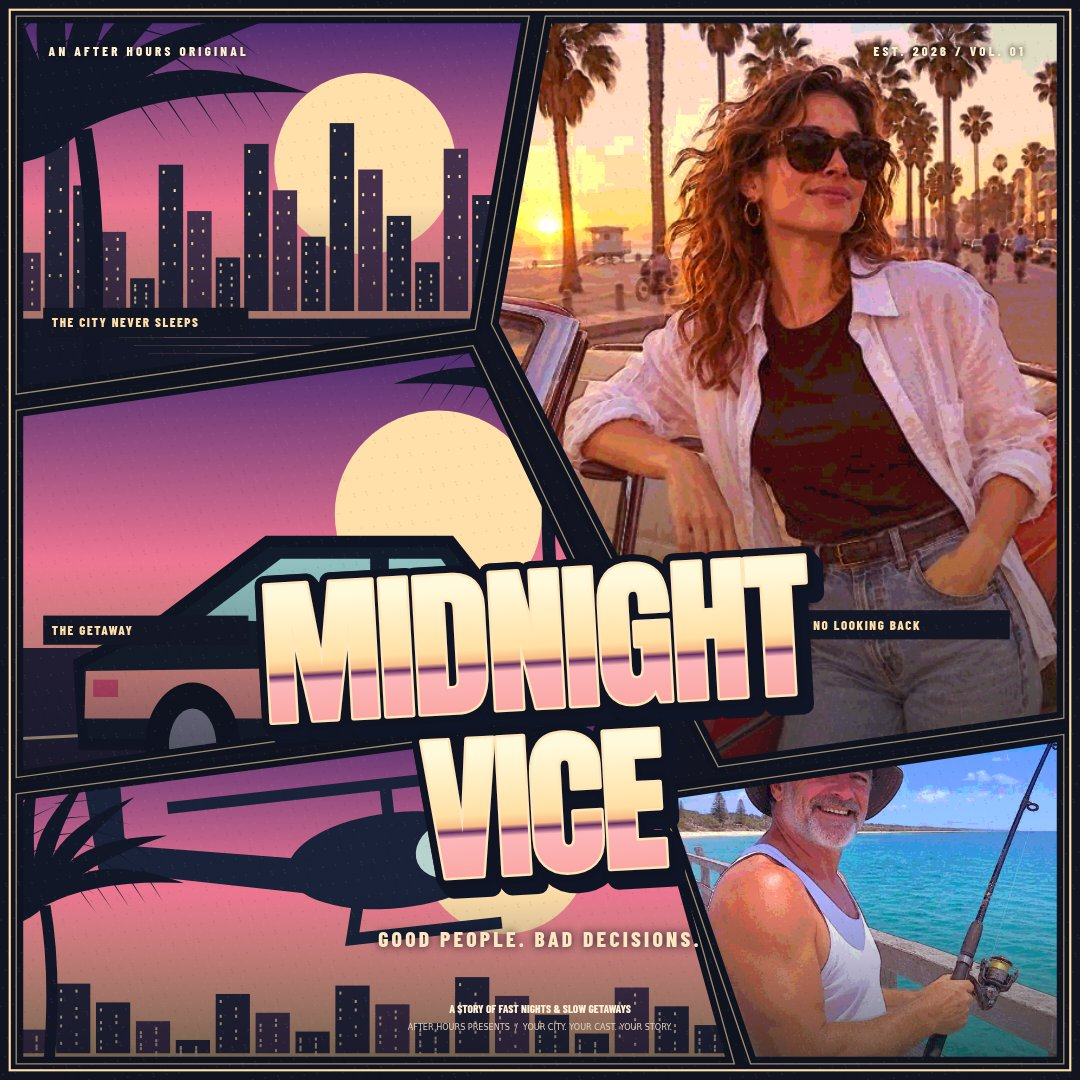
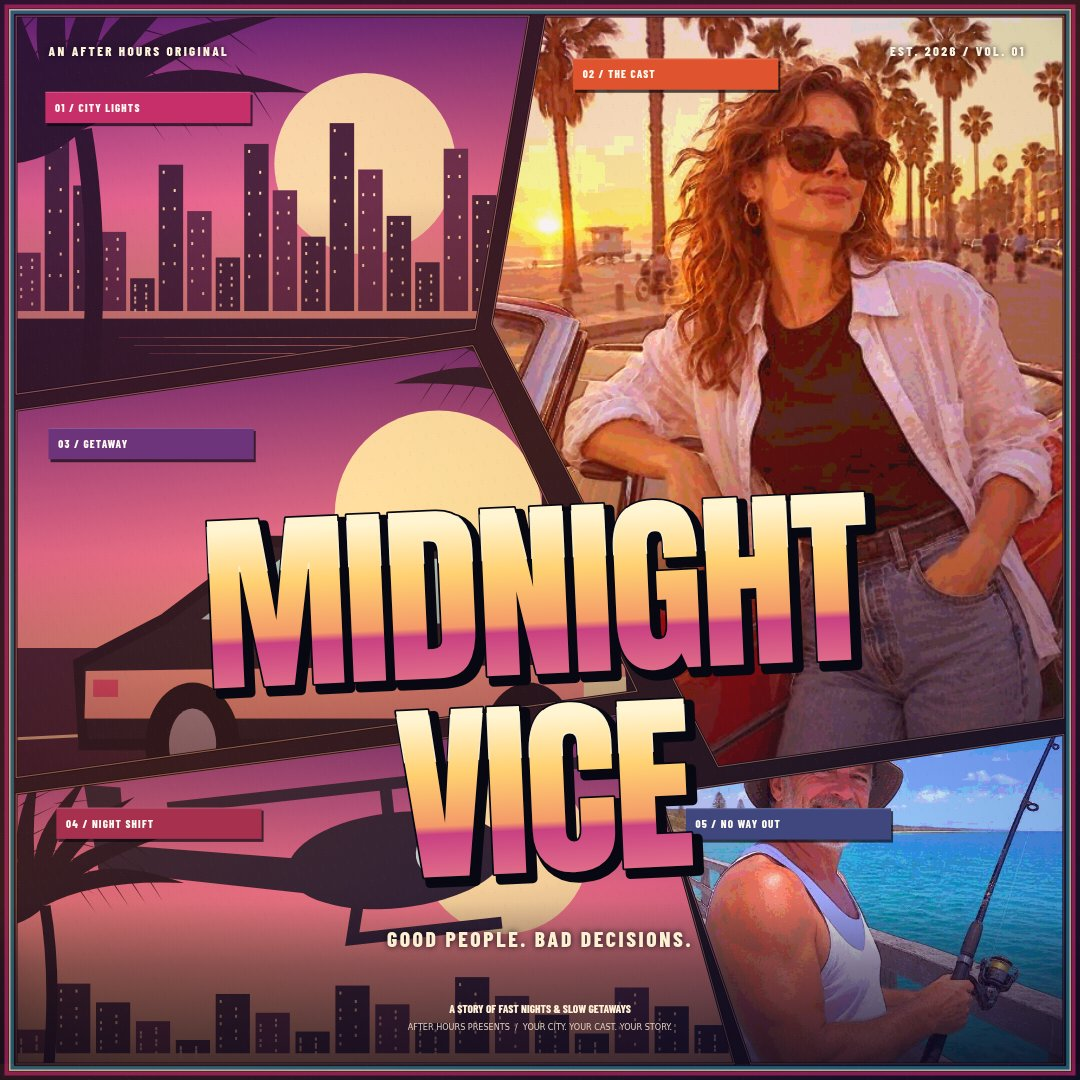
Art pass: bolder lettering, dynamic panels, richer grade

diff --git a/app/src/cover.js b/app/src/cover.js
@@ -6,11 +6,12 @@ const palettes = {
  ice:{sky:['#182b58','#457fa2','#a5ddd3'],light:'#d4ffe6',accent:'#6edfd9',dark:'#121d31'}
 };
 function panels(layout='fracture'){
- if(layout==='blocks')return [[[.015,.015],[.33,.015],[.33,.31],[.015,.31]],[[.34,.015],[.985,.015],[.985,.64],[.34,.64]],[[.015,.325],[.33,.325],[.33,.65],[.015,.65]],[[.015,.665],[.49,.665],[.49,.985],[.015,.985]],[[.505,.655],[.985,.655],[.985,.985],[.505,.985]]];
- if(layout==='cinema')return [[[.015,.015],[.985,.015],[.985,.25],[.015,.25]],[[.24,.265],[.76,.265],[.8,.83],[.2,.83]],[[.015,.265],[.225,.265],[.185,.83],[.015,.83]],[[.775,.265],[.985,.265],[.985,.83],[.815,.83]],[[.015,.845],[.985,.845],[.985,.985],[.015,.985]]];
+ if(layout==='blocks')return [[[.015,.015],[.32,.015],[.33,.295],[.015,.31]],[[.335,.015],[.985,.015],[.985,.625],[.35,.64]],[[.015,.325],[.31,.31],[.33,.65],[.015,.65]],[[.015,.665],[.475,.665],[.49,.985],[.015,.985]],[[.49,.655],[.985,.655],[.985,.985],[.51,.985]]];
+ if(layout==='cinema')return [[[.015,.015],[.985,.015],[.985,.245],[.015,.25]],[[.245,.265],[.76,.265],[.8,.82],[.2,.83]],[[.015,.265],[.225,.265],[.185,.82],[.015,.83]],[[.775,.265],[.985,.265],[.985,.82],[.815,.83]],[[.015,.845],[.985,.845],[.985,.985],[.015,.985]]];
  return [[[.015,.015],[.49,.015],[.44,.305],[.015,.365]],[[.505,.015],[.985,.015],[.985,.665],[.665,.71],[.455,.30]],[[.015,.38],[.438,.32],[.59,.64],[.015,.72]],[[.015,.735],[.59,.66],[.68,.985],[.015,.985]],[[.61,.735],[.985,.68],[.985,.985],[.695,.985]]];
 }
 function path(c,p,w,h){c.beginPath();p.forEach(([x,y],i)=>i?c.lineTo(x*w,y*h):c.moveTo(x*w,y*h));c.closePath()}
+function centroid(poly){return poly.reduce((a,[x,y])=>[a[0]+x/poly.length,a[1]+y/poly.length],[0,0])}
 function palm(c,x,y,s,flip=1){c.save();c.translate(x,y);c.scale(s*flip,s);c.fillStyle='#121728';c.strokeStyle='#121728';c.lineWidth=8;c.beginPath();c.moveTo(0,140);c.quadraticCurveTo(10,58,0,0);c.stroke();for(let i=0;i<9;i++){let a=-Math.PI+.36*i;c.save();c.rotate(a);c.beginPath();c.moveTo(0,0);c.quadraticCurveTo(35,-35,100,10);c.quadraticCurveTo(40,-9,0,0);c.fill();for(let j=2;j<7;j++){c.beginPath();c.moveTo(j*12,-11);c.lineTo(j*12+10,13+j);c.lineTo(j*12+3,-5);c.fill()}c.restore()}c.restore()}
 function skyline(c,x,y,w,h,p){for(let i=0;i<18;i++){let bh=h*(.15+((i*71+17)%100)/130),bw=w/21;c.fillStyle=i%3===0?'#45304b':'#242439';c.fillRect(x+i*w/18,y-bh,bw,bh);c.fillStyle=p.light;for(let r=0;r<7;r++)for(let k=0;k<2;k++)if((i+r+k)%3)c.fillRect(x+i*w/18+4+k*bw*.45,y-bh+6+r*bh/8,2,3)}}
 function scene(c,b,type,p){let {x,y,w,h}=b;c.save();c.beginPath();c.rect(x,y,w,h);c.clip();let g=c.createLinearGradient(0,y,0,y+h);p.sky.forEach((v,i)=>g.addColorStop(i/2,v));c.fillStyle=g;c.fillRect(x,y,w,h);c.fillStyle=p.light;c.beginPath();c.arc(x+w*.68,y+h*.39,Math.min(w,h)*.24,0,7);c.fill();
@@ -21,19 +22,77 @@ function scene(c,b,type,p){let {x,y,w,h}=b;c.save();c.beginPath();c.rect(x,y,w,h
 const cache=new WeakMap();
 function processed(img,ink){if(!ink)return img;if(cache.has(img))return cache.get(img);let a=document.createElement('canvas');let scale=Math.min(1,1000/img.naturalWidth);a.width=img.naturalWidth*scale;a.height=img.naturalHeight*scale;let k=a.getContext('2d',{willReadFrequently:true});k.drawImage(img,0,0,a.width,a.height);let d=k.getImageData(0,0,a.width,a.height),o=new Uint8ClampedArray(d.data);for(let y=1;y<a.height-1;y++)for(let x=1;x<a.width-1;x++){let i=(y*a.width+x)*4;let edge=0;for(let j=0;j<3;j++)edge+=Math.abs(o[i+j-4]-o[i+j+4])+Math.abs(o[i+j-a.width*4]-o[i+j+a.width*4]);let e=Math.max(.35,1-Math.max(0,edge-75)/500);for(let j=0;j<3;j++)d.data[i+j]=Math.round(o[i+j]/22)*22*e;}k.putImageData(d,0,0);cache.set(img,a);return a}
 function drawCover(canvas,images,caption,opts={}){
- const c=canvas.getContext('2d'),w=canvas.width,h=canvas.height,p=palettes[opts.grade||'sunset'];c.clearRect(0,0,w,h);c.fillStyle='#121421';c.fillRect(0,0,w,h);let ps=panels(opts.layout);let assignments=opts.assignments||[0,-1,-2,-3,1];
- ps.forEach((poly,i)=>{let xs=poly.map(a=>a[0]*w),ys=poly.map(a=>a[1]*h),b={x:Math.min(...xs),y:Math.min(...ys),w:Math.max(...xs)-Math.min(...xs),h:Math.max(...ys)-Math.min(...ys)};c.save();path(c,poly,w,h);c.clip();let ix=assignments[i],img=images[(ix>=0?ix:i)%images.length];if(ix<0){scene(c,b,ix===-1?'skyline':ix===-2?'car':'flight',p)}else if(img){let src=processed(img,opts.ink),sw=src.width||src.naturalWidth,sh=src.height||src.naturalHeight,crop=opts.crops?.[i]||{x:0,y:0,zoom:1},s=Math.max(b.w/sw,b.h/sh)*(crop.zoom||1),dw=sw*s,dh=sh*s;c.filter='saturate(1.3) contrast(1.1)';c.drawImage(src,b.x+(b.w-dw)/2+Math.min(1,Math.max(-1,crop.x||0))*(dw-b.w)/2,b.y+(b.h-dh)/2+Math.min(1,Math.max(-1,crop.y||0))*(dh-b.h)/2,dw,dh);c.filter='none';let tint=c.createLinearGradient(0,b.y,0,b.y+b.h);tint.addColorStop(0,p.sky[0]);tint.addColorStop(.55,p.sky[1]);tint.addColorStop(1,p.sky[2]);c.globalCompositeOperation='soft-light';c.globalAlpha=(opts.intensity??65)/100;c.fillStyle=tint;c.fillRect(b.x,b.y,b.w,b.h);c.globalCompositeOperation='source-over';c.globalAlpha=1}else scene(c,b,'skyline',p);let sh=c.createLinearGradient(0,b.y+b.h*.5,0,b.y+b.h);sh.addColorStop(0,'#11132200');sh.addColorStop(1,'#11132299');c.fillStyle=sh;c.fillRect(b.x,b.y,b.w,b.h);c.restore();c.save();path(c,poly,w,h);c.strokeStyle='#0f1320';c.lineWidth=w*.013;c.stroke();c.strokeStyle=p.light+'99';c.lineWidth=w*.0012;c.stroke();c.restore()});
- // Small cast callouts are integrated into the key art.
- c.save();c.textBaseline='middle';c.font=`800 ${w*.012}px Barlow`;c.letterSpacing=`${w*.0015}px`;
- function castTag(text,x,y){c.fillStyle='#131725';c.fillRect(x*w,y*h,w*.19,h*.027);c.fillStyle=p.light;c.fillText(text,x*w+w*.008,y*h+h*.014)}
- if(opts.layout!=='cinema'){castTag('THE CITY NEVER SLEEPS',.04,.285);castTag('THE GETAWAY',.04,.57);castTag('NO LOOKING BACK',.745,.565)}
+ const c=canvas.getContext('2d'),w=canvas.width,h=canvas.height,scale=w/1080,p=palettes[opts.grade||'sunset'];
+ c.clearRect(0,0,w,h);c.fillStyle='#121421';c.fillRect(0,0,w,h);
+ const ps=panels(opts.layout),assignments=opts.assignments||[0,-1,-2,-3,1];
+ ps.forEach((poly,i)=>{
+  const xs=poly.map(a=>a[0]*w),ys=poly.map(a=>a[1]*h),b={x:Math.min(...xs),y:Math.min(...ys),w:Math.max(...xs)-Math.min(...xs),h:Math.max(...ys)-Math.min(...ys)};
+  c.save();path(c,poly,w,h);c.clip();
+  const ix=assignments[i],img=images.length?images[(ix>=0?ix:i)%images.length]:null;
+  if(ix<0)scene(c,b,ix===-1?'skyline':ix===-2?'car':'flight',p);
+  else if(img){
+   const src=processed(img,opts.ink),sw=src.width||src.naturalWidth,sh=src.height||src.naturalHeight,crop=opts.crops?.[i]||{x:0,y:0,zoom:1},s=Math.max(b.w/sw,b.h/sh)*(crop.zoom||1),dw=sw*s,dh=sh*s;
+   c.filter='saturate(1.34) contrast(1.12) brightness(1.03)';
+   c.drawImage(src,b.x+(b.w-dw)/2+Math.min(1,Math.max(-1,crop.x||0))*(dw-b.w)/2,b.y+(b.h-dh)/2+Math.min(1,Math.max(-1,crop.y||0))*(dh-b.h)/2,dw,dh);c.filter='none';
+   const tint=c.createLinearGradient(0,b.y,0,b.y+b.h);tint.addColorStop(0,p.sky[0]);tint.addColorStop(.55,p.sky[1]);tint.addColorStop(1,p.sky[2]);
+   c.globalCompositeOperation='soft-light';c.globalAlpha=(opts.intensity??65)/100*.42;c.fillStyle=tint;c.fillRect(b.x,b.y,b.w,b.h);c.globalCompositeOperation='source-over';c.globalAlpha=1;
+  }else scene(c,b,'skyline',p);
+  // A gentle panel vignette keeps faces, cars, and scene silhouettes in focus.
+  const vignette=c.createRadialGradient(b.x+b.w*.5,b.y+b.h*.45,Math.min(b.w,b.h)*.14,b.x+b.w*.5,b.y+b.h*.45,Math.hypot(b.w,b.h)*.68);
+  vignette.addColorStop(0,'rgba(8,8,20,0)');vignette.addColorStop(.62,'rgba(8,8,20,.08)');vignette.addColorStop(1,'rgba(5,6,17,.43)');c.fillStyle=vignette;c.fillRect(b.x,b.y,b.w,b.h);
+  const shade=c.createLinearGradient(0,b.y+b.h*.48,0,b.y+b.h);shade.addColorStop(0,'rgba(12,12,27,0)');shade.addColorStop(1,'rgba(12,12,27,.48)');c.fillStyle=shade;c.fillRect(b.x,b.y,b.w,b.h);
+  c.restore();
+  c.save();path(c,poly,w,h);c.strokeStyle='#090b14';c.lineWidth=Math.max(2,scale*2.7);c.lineJoin='miter';c.stroke();c.strokeStyle='rgba(255,239,211,.38)';c.lineWidth=Math.max(1,scale*.8);c.stroke();c.restore();
+ });
+
+ // Rich sunset ink ties the individual panels into one finished poster.
+ const sunset=opts.grade==='sunset'||!opts.grade,wash=c.createLinearGradient(w*.08,0,w*.88,h);
+ if(sunset){wash.addColorStop(0,'#d83a98');wash.addColorStop(.46,'#ff713e');wash.addColorStop(1,'#42216f')}
+ else{wash.addColorStop(0,p.sky[0]);wash.addColorStop(.48,p.sky[1]);wash.addColorStop(1,p.sky[2])}
+ c.save();c.globalCompositeOperation='soft-light';c.globalAlpha=.52;c.fillStyle=wash;c.fillRect(0,0,w,h);
+ c.globalCompositeOperation='screen';c.globalAlpha=.095;c.fillRect(0,0,w,h);c.globalCompositeOperation='source-over';c.globalAlpha=1;
+ const edgeShade=c.createRadialGradient(w*.5,h*.43,Math.min(w,h)*.18,w*.5,h*.46,Math.max(w,h)*.78);edgeShade.addColorStop(0,'rgba(0,0,0,0)');edgeShade.addColorStop(.75,'rgba(9,5,24,.05)');edgeShade.addColorStop(1,'rgba(5,4,18,.34)');c.fillStyle=edgeShade;c.fillRect(0,0,w,h);c.restore();
+
+ // Deterministic fine print grain keeps the preview and exported PNG consistent.
+ if(opts.grain){c.save();c.globalAlpha=.055;const size=Math.max(1,scale*1.1);for(let i=0;i<22000;i++){const x=((i*7919)%10007)/10007*w,y=((i*3793)%9973)/9973*h;c.fillStyle=i%2?'#fff2d8':'#0b1223';c.fillRect(x,y,size,size)}c.restore()}
+
+ // Small solid caption strips label every frame without taking over the art.
+ const labels=['01 / CITY LIGHTS','02 / THE CAST','03 / GETAWAY','04 / NIGHT SHIFT','05 / NO WAY OUT'],colors=['#c62f69','#df542e','#6d337b','#a6304e','#3f477e'];
+ c.save();c.textBaseline='middle';c.font=`800 ${w*.0102}px Barlow`;c.letterSpacing=`${w*.0011}px`;
+ // Keep the first panel's callout below the poster header.
+ ps.forEach((poly,i)=>{const [cx,cy]=centroid(poly),[vx,vy]=poly[0],x=vx+(cx-vx)*.12,y=Math.max(vy+(cy-vy)*.12,i===0?.085:0),xs=poly.map(a=>a[0]),tw=Math.min(w*.19,(Math.max(...xs)-Math.min(...xs))*w*.78),th=h*.029;c.fillStyle='rgba(7,8,16,.7)';c.fillRect(x*w+scale*2,y*h+scale*3,tw,th);c.fillStyle=colors[i];c.fillRect(x*w,y*h,tw,th);c.fillStyle='rgba(255,255,255,.22)';c.fillRect(x*w,y*h,tw,Math.max(1,scale));c.fillStyle='#fffaf2';c.fillText(labels[i],x*w+w*.009,y*h+th*.52)});
  c.restore();
- // Print grain, deterministic so exports match previews exactly.
- if(opts.grain){c.save();c.globalAlpha=.07;for(let i=0;i<14500;i++){let x=((i*7919)%10007)/10007*w,y=((i*3793)%9973)/9973*h;c.fillStyle=i%2?'#fff2d8':'#0b1223';c.fillRect(x,y,w*.0015,w*.0015)}c.restore()}
- c.save();c.textBaseline='top';c.font=`800 ${w*.012}px Barlow`;c.letterSpacing=`${w*.003}px`;c.fillStyle='#fff0d3';c.shadowColor='#111';c.shadowBlur=5;c.fillText('AN AFTER HOURS ORIGINAL',w*.045,h*.042);c.textAlign='right';c.fillText('EST. 2026 / VOL. 01',w*.95,h*.042);c.restore();
- // Custom title lockup uses open-license Anton, never official game branding.
- // Measure with the same tracking used to draw the headline.
- let title=(caption||'').trim().toUpperCase();let words=title.split(/\s+/),lines=words.length>1?[words.slice(0,Math.ceil(words.length/2)).join(' '),words.slice(Math.ceil(words.length/2)).join(' ')]:[title];if(!title)lines=[];let base=Math.min(w*.148,h*.15);c.save();c.translate(w*.50,h*.69);c.rotate(-.055);c.textAlign='center';c.textBaseline='middle';c.lineJoin='round';let fontSize=base;const setHeadlineFont=()=>{c.font=`${fontSize}px Anton`;c.letterSpacing=`${fontSize*(opts.headlineTracking??0)}px`};setHeadlineFont();while(lines.some(t=>c.measureText(t).width>w*.86)&&fontSize>18){fontSize-=2;setHeadlineFont()}let lineH=fontSize*1.03;lines.forEach((line,i)=>{let y=(i-(lines.length-1)/2)*lineH;for(let e=11;e>0;e--){c.strokeStyle='#111627';c.lineWidth=w*.019;c.strokeText(line,e*.7,y+e);c.fillStyle='#a74168';c.fillText(line,e*.7,y+e)}c.strokeStyle='#101422';c.lineWidth=w*.018;c.strokeText(line,0,y);c.strokeStyle='#ffe5b9';c.lineWidth=w*.0045;c.strokeText(line,0,y);let g=c.createLinearGradient(0,y-fontSize/2,0,y+fontSize/2);g.addColorStop(0,'#fff9db');g.addColorStop(.4,'#ffe0a5');g.addColorStop(.47,'#f9bc88');g.addColorStop(.50,'#632b63');g.addColorStop(.54,'#fcb6ba');g.addColorStop(1,p.accent);c.fillStyle=g;c.fillText(line,0,y)});c.restore();
- c.save();c.textAlign='center';c.textBaseline='middle';c.shadowColor='#121321';c.shadowBlur=8;let tag=(opts.tagline??'GOOD PEOPLE. BAD DECISIONS.').toUpperCase();let sz=w*.02;c.font=`800 ${sz}px Barlow`;while(c.measureText(tag).width>w*.83&&sz>8){sz--;c.font=`800 ${sz}px Barlow`}c.letterSpacing=`${w*.003}px`;c.fillStyle='#ffe7c3';c.fillText(tag,w*.5,h*.87);c.shadowBlur=0;c.letterSpacing='0px';c.font=`800 ${w*.0105}px Barlow`;c.fillStyle='#fff0d6';c.fillText('A STORY OF FAST NIGHTS & SLOW GETAWAYS',w*.5,h*.934);c.font=`${w*.0075}px Arial`;c.fillStyle='#e2cfbf';c.fillText('AFTER HOURS PRESENTS  /  YOUR CITY. YOUR CAST. YOUR STORY.',w*.5,h*.952);c.restore();c.strokeStyle=p.light;c.lineWidth=w*.002;c.strokeRect(w*.009,h*.009,w*.982,h*.982);
+
+ // Draw each header once, reserving a horizontal gap between its two labels.
+ const headerLeft=w*.045,headerRight=w*.95,headerGap=w*.06,headerWidth=(headerRight-headerLeft-headerGap)/2;
+ c.save();c.textBaseline='top';c.font=`800 ${w*.012}px Barlow`;c.letterSpacing=`${w*.0022}px`;c.fillStyle='#fff3dc';c.shadowColor='#100b20';c.shadowBlur=scale*5;
+ c.textAlign='left';c.fillText('AN AFTER HOURS ORIGINAL',headerLeft,h*.042,headerWidth);
+ c.textAlign='right';c.fillText('EST. 2026 / VOL. 01',headerRight,h*.042,headerWidth);c.restore();
+
+ // Custom open-license Anton lockup: large, tightly tracked, and sharply outlined.
+ let title=(caption||'').trim().toUpperCase(),words=title.split(/\s+/),lines=words.length>1?[words.slice(0,Math.ceil(words.length/2)).join(' '),words.slice(Math.ceil(words.length/2)).join('')]:[title];
+ if(!title)lines=[];
+ c.save();c.translate(w*.5,h*.665);c.rotate(-.045);c.textAlign='center';c.textBaseline='middle';c.lineJoin='round';c.miterLimit=2;
+ let fontSize=Math.min(w*.182,h*.18);
+ const setHeadlineFont=()=>{c.font=`${fontSize}px Anton`;c.letterSpacing=`${fontSize*(opts.headlineTracking??-.04)}px`};
+ setHeadlineFont();while(lines.some(t=>c.measureText(t).width>w*.9)&&fontSize>18){fontSize-=2;setHeadlineFont()}
+ const lineH=fontSize*1.02,outline=3.5*scale,shadowOffset=6*scale;
+ lines.forEach((line,i)=>{
+  const y=(i-(lines.length-1)/2)*lineH;
+  c.strokeStyle='#080812';c.lineWidth=outline*2.7;c.strokeText(line,shadowOffset,y+shadowOffset);c.fillStyle='#080812';c.fillText(line,shadowOffset,y+shadowOffset);
+  c.strokeStyle='#080812';c.lineWidth=outline;c.strokeText(line,0,y);
+  const fill=c.createLinearGradient(0,y-fontSize*.53,0,y+fontSize*.53);fill.addColorStop(0,'#fff5d3');fill.addColorStop(.26,'#ffd172');fill.addColorStop(.52,'#f49a69');fill.addColorStop(.56,'#c94182');fill.addColorStop(1,p.accent);c.fillStyle=fill;c.fillText(line,0,y);
+  c.save();c.beginPath();c.rect(-w,y-fontSize*.55,w*2,fontSize*.24);c.clip();c.strokeStyle='#fff9df';c.globalAlpha=.88;c.lineWidth=Math.max(1,scale*1.15);c.strokeText(line,0,y);c.restore();
+ });
+ c.restore();
+
+ // A quiet backing fade makes the tagline and edition lines readable over any photo.
+ c.save();const footer=c.createLinearGradient(0,h*.835,0,h*.985);footer.addColorStop(0,'rgba(12,8,24,0)');footer.addColorStop(.4,'rgba(12,8,24,.30)');footer.addColorStop(1,'rgba(12,8,24,.56)');c.fillStyle=footer;c.fillRect(0,h*.835,w,h*.15);
+ c.textAlign='center';c.textBaseline='middle';c.shadowColor='#090712';c.shadowBlur=scale*6;
+ const tag=(opts.tagline??'GOOD PEOPLE. BAD DECISIONS.').toUpperCase();let sz=w*.02;c.font=`800 ${sz}px Barlow`;while(c.measureText(tag).width>w*.83&&sz>8){sz--;c.font=`800 ${sz}px Barlow`}c.letterSpacing=`${w*.0024}px`;c.fillStyle='#fff0d4';c.fillText(tag,w*.5,h*.87);
+ c.shadowBlur=0;c.letterSpacing='0px';c.font=`800 ${w*.0105}px Barlow`;c.fillStyle='#fff0d6';c.fillText('A STORY OF FAST NIGHTS & SLOW GETAWAYS',w*.5,h*.934);c.font=`${w*.0075}px Arial`;c.fillStyle='#e2cfbf';c.fillText('AFTER HOURS PRESENTS  /  YOUR CITY. YOUR CAST. YOUR STORY.',w*.5,h*.952);c.restore();
+
+ // Slightly displaced magenta/cyan keylines create a restrained chromatic edge.
+ c.save();c.lineWidth=Math.max(2,scale*4);c.strokeStyle='rgba(255,45,132,.48)';c.strokeRect(w*.006,h*.006,w*.988,h*.988);c.strokeStyle='rgba(57,226,255,.35)';c.strokeRect(w*.011,h*.011,w*.978,h*.978);c.strokeStyle=p.light;c.globalAlpha=.72;c.lineWidth=Math.max(1,scale*1.5);c.strokeRect(w*.009,h*.009,w*.982,h*.982);c.restore();
  return ps;
 }
